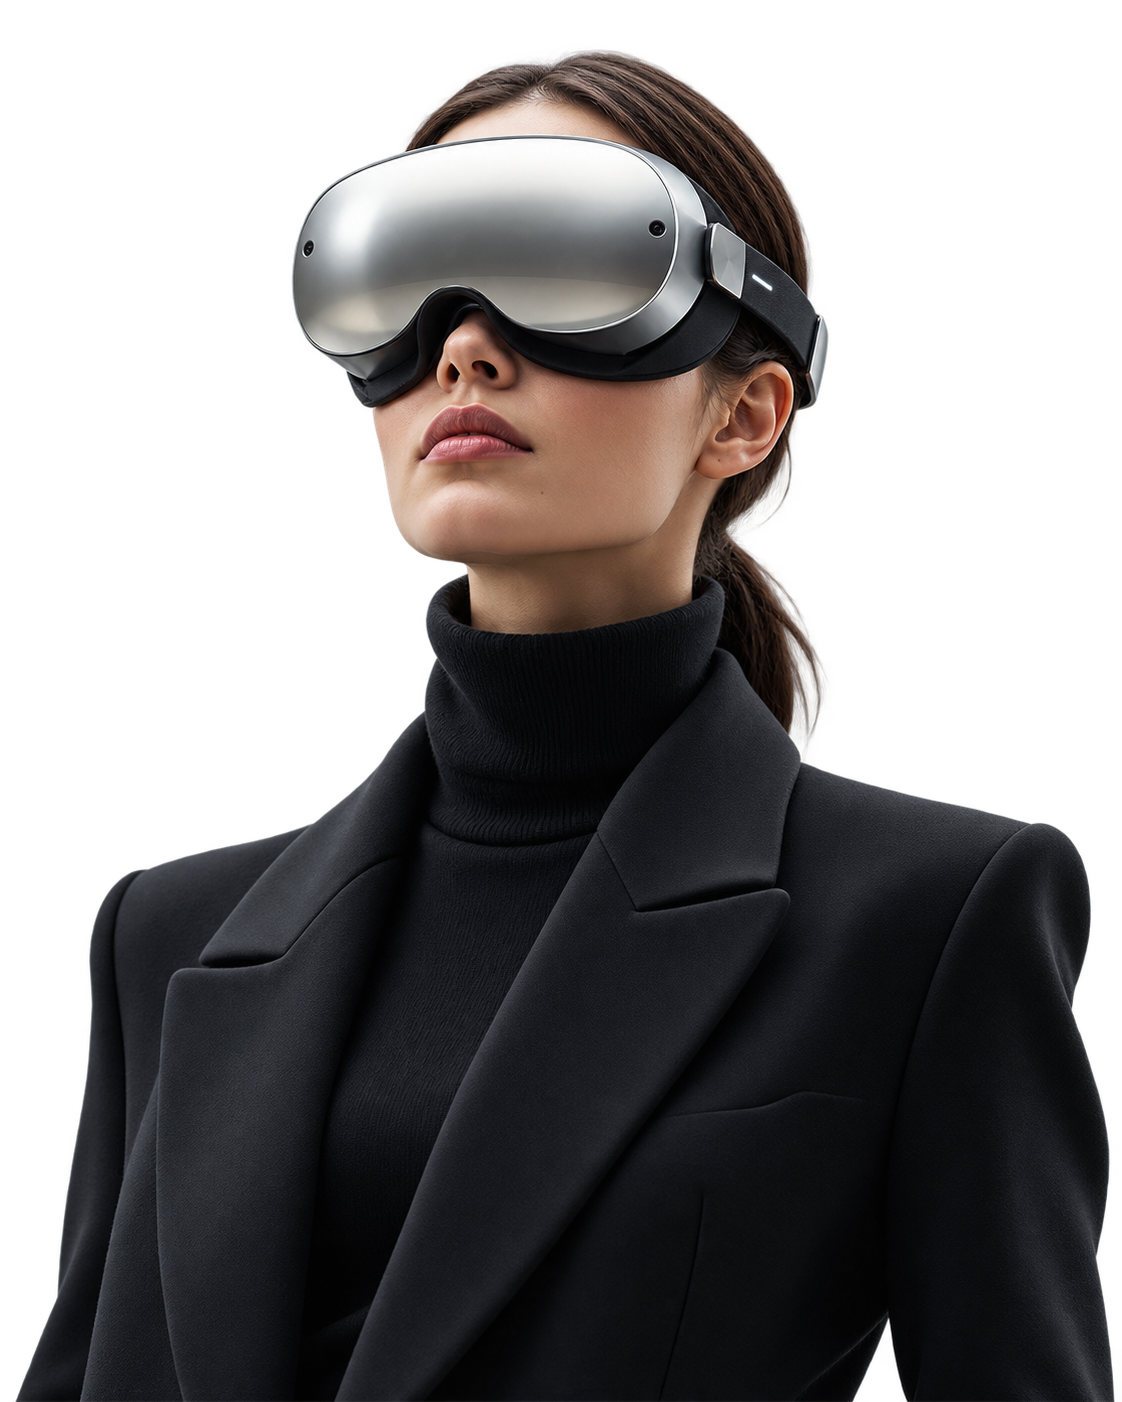
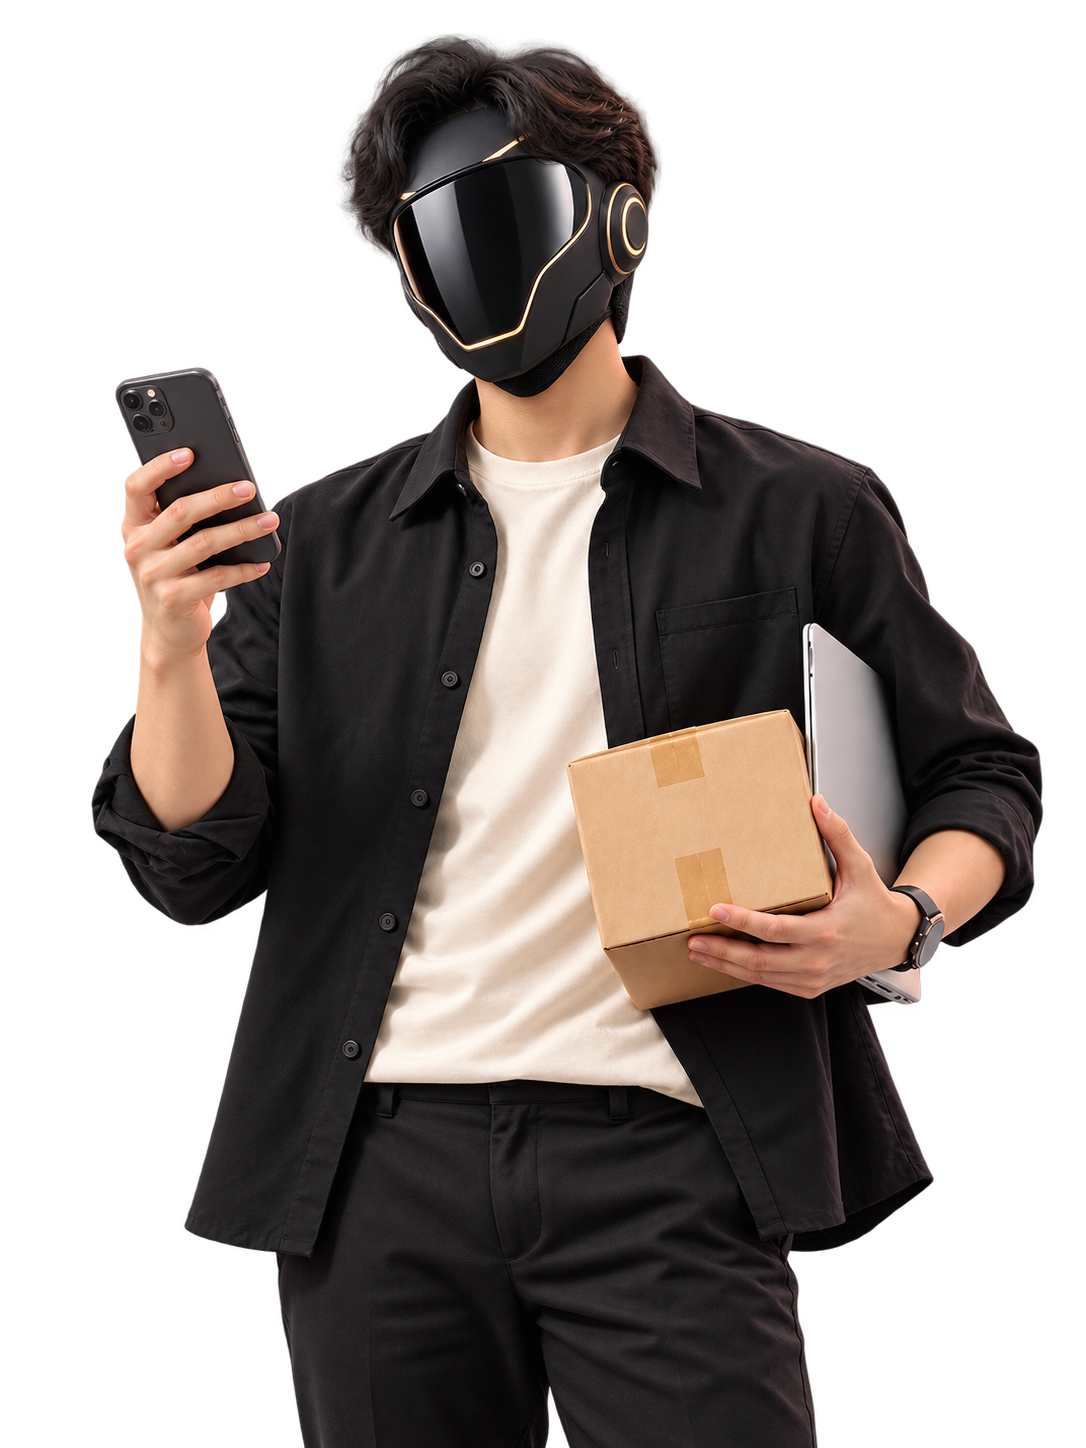
fix: update hero image from docs and bump cache buster

diff --git a/src/components/sites/www.kalanalabs.com-f2e239fb/root-8a5edab2/Hero.tsx b/src/components/sites/www.kalanalabs.com-f2e239fb/root-8a5edab2/Hero.tsx
@@ -24,7 +24,7 @@ export default function Hero() {
         style={{ animationDelay: '0.2s', animationFillMode: 'both' }}
       >
         <img 
-          src="/images/hero-section.png?v=2" 
+          src="/images/hero-section.png?v=3" 
           alt="Kalana Labs - Digital Solutions" 
           className="w-full h-full object-contain object-top drop-shadow-[0_20px_50px_rgba(26,26,26,0.15)]"
         />
